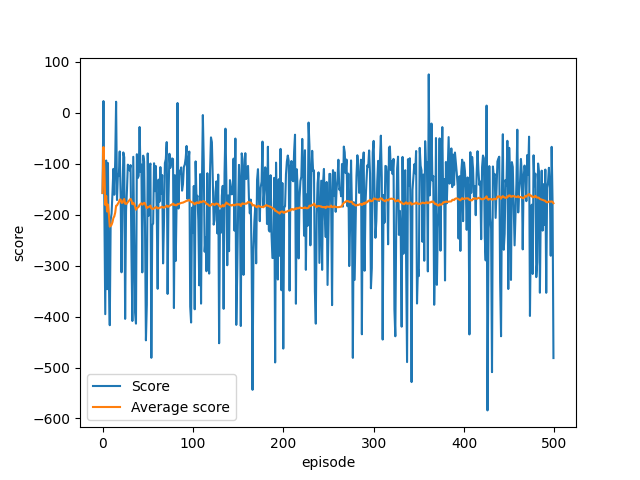
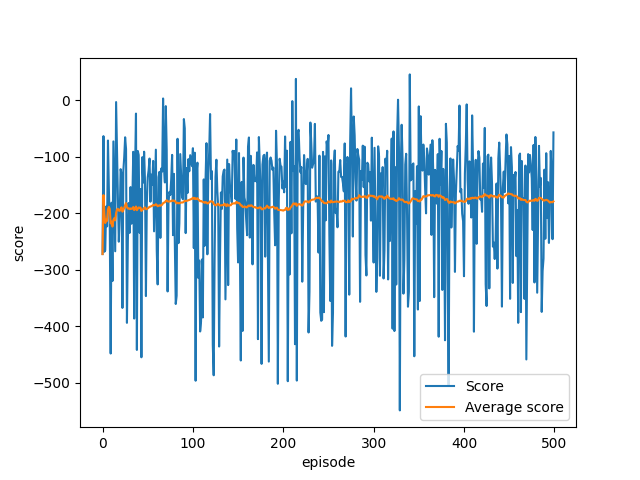
visualization, model lr update

diff --git a/AS2.2/Agent.py b/AS2.2/Agent.py
@@ -11,6 +11,13 @@ class Agent:
         self.maze = Maze
         self.policy = Policy
         self.delta_threshold = delta_threshold
+        # self.iterations = {}
+        # index = 0
+        # for vertical in range(4):
+        #     for horizontal in range(4):
+        #         coord = (vertical, horizontal)
+        #         self.iterations[coord] = []
+        #         index += 1
 
     def value_iteration(self):
         """
@@ -71,7 +78,17 @@ class Agent:
                 else:
                     print("Terminal state: ", next_state)
                     self.position = (3, 2)
-                self.print_iteration(-1)
+                    self.print_iteration(-1)
+
+                    # --------------- TEST -------------------
+
+                    for cor in self.maze.grid:
+                        self.maze.episodes[cor].append(round(self.maze.grid[cor][-1], 2))
+                    # self.maze.episodes.append
+
+                    # --------------- TEST -------------------
+
+        self.plot_values(2, 5, "_temporal_difference")
 
     def sarsa(self, discount: float, learning_rate: float, epsilon: float, epochs: int):
         """
@@ -84,6 +101,7 @@ class Agent:
                 epochs(int): ...
         """
         for epoch in range(epochs):
+            print("epoch: ", epoch)
             state = self.position
             print('\n')
             print(state)
@@ -99,8 +117,8 @@ class Agent:
                 next_surr_values = self.policy.value_func(next_surr_states, discount)
 
                 next_action = self.policy.decide_action_value(next_position, discount, epsilon, next_surr_values)
-
-                # self.pos[3][action] = c_surr_values[action] + learning_rate * (self.maze.rewards[next_position] + discount * next_surr_values[next_action] - c_surr_values[action])
+                print(next_action)
+                # self.maze.grid[] = c_surr_values[action] + learning_rate * (self.maze.rewards[next_position] + discount * next_surr_values[next_action] - c_surr_values[action])
 
                 action = next_action
                 self.position = next_position
@@ -160,23 +178,37 @@ class Agent:
         """
         Plot the values in a state transition matrix
         """
-        iterations = len(self.maze.grid[0, 0])
-        rows = math.ceil(math.sqrt(len(self.maze.grid)))
-        cols = math.ceil(math.sqrt(len(self.maze.grid)))
+        iterations = len(self.maze.episodes[0, 0]) - 1
+        rows = math.ceil(math.sqrt(len(self.maze.episodes)))
+        cols = math.ceil(math.sqrt(len(self.maze.episodes)))
+        # print(rows, cols, len(self.maze.episodes))
+        # print(self.maze.episodes)
 
         fig, axs = plt.subplots(tot_fig_rows, tot_fig_columns, figsize=(10, 9))
         fig.suptitle('Heatmaps for Each Iteration')
 
-        for i in range(iterations):
+        print(self.maze.episodes)
+
+        cl = -1
+        nextt = False
+        for i in range(iterations + 1):
             values = []
+            cl += 1
             for r in range(rows):
                 row_values = []
                 for c in range(cols):
                     key = (r, c)
-                    row_values.append(self.maze.grid[key][i])
+                    row_values.append(self.maze.episodes[key][i])
                 values.append(row_values)
 
-            ax = axs[i // tot_fig_rows, i % tot_fig_columns]
+            rw = 0 if i <= (iterations/2) else 1
+            if i > (iterations/2) and not nextt:
+                cl = 0
+                nextt = True
+            # cl =
+            print([rw, cl])
+            ax = axs[rw, cl]
+            # ax = axs[i // tot_fig_rows, i % tot_fig_columns]
             ax.imshow(values, cmap='viridis', interpolation='nearest')
 
             for r in range(rows):
@@ -184,7 +216,7 @@ class Agent:
                     color = 'black' if values[r][c] > 30 else 'white'
                     ax.text(c, r, values[r][c], ha='center', va='center', color=color)
 
-            ax.set_title(f'Iteration {i + 1}')
+            ax.set_title(f'Iteration {i}')
             ax.set_xticks(range(cols))
             ax.set_yticks(range(rows))
             ax.set_xticklabels([str(j) for j in range(cols)])

diff --git a/AS2.2/Maze.py b/AS2.2/Maze.py
@@ -8,6 +8,7 @@ class Maze:
         self.grid = {}
         self.terminal_states = []
         self.actions = {0: [-1, 0], 1: [1, 0], 2: [0, -1], 3: [0, 1]}
+        self.episodes = self.fillDict([[] for _ in range(16)])
 
     def stepper(self, position, action):
         movement = self.actions[action]
@@ -42,10 +43,7 @@ class Maze:
         return dict
 
     def create_maze_values(self):
-        values = [[0], [0], [0], [0],
-                  [0], [0], [0], [0],
-                  [0], [0], [0], [0],
-                  [0], [0], [0], [0]]
+        values = [[0] for _ in range(16)]
 
         rewards = [-1, -1, -1, 40,
                    -1, -1, -10, -10,

diff --git a/AS2.2/main.py b/AS2.2/main.py
@@ -17,8 +17,8 @@ agent = Agent(start_position, maze, policy, delta_threshold)
 agent.value_iteration()
 
 # agent.temporal_difference(0.5, 1, 10)
-agent.temporal_difference(0.5, 0.5, 10)
-# agent.sarsa(0.25, 1, 0.1, 2000)
+# agent.temporal_difference(0.5, 0.5, 10)
+agent.sarsa(0.25, 1, 0.1, 2000)
 # agent.sarsa(0.25, 0.9, 0.1, 20000)
 # agent.q_learning(0.25, 1, 0.1, 50000)
 # agent.q_learning(0.5, 0.9, 0.1, 50000)

diff --git a/AS3.1/Policy.py b/AS3.1/Policy.py
@@ -41,7 +41,7 @@ class Policy:
 
     def setup_model(self, dimensions, actions, lr):
         model = tf.keras.Sequential()
-        model.add(layers.Dense(64, input_shape=(None, 8)))
+        model.add(layers.Dense(dimensions, input_shape=(None, 8)))
         model.add(layers.Dense(128, activation="relu"))
         model.add(layers.Dense(128, activation="relu"))
         model.add(layers.Dense(actions))

diff --git a/AS1.2/Maze.py b/AS1.2/Maze.py
@@ -42,10 +42,7 @@ class Maze:
         return dict
 
     def create_maze_values(self):
-        values = [[0], [0], [0], [0],
-                  [0], [0], [0], [0],
-                  [0], [0], [0], [0],
-                  [0], [0], [0], [0]]
+        values = [[0] for _ in range(16)]
 
         rewards = [-1, -1, -1, 40,
                    -1, -1, -10, -10,

diff --git a/AS3.1/main.py b/AS3.1/main.py
@@ -12,7 +12,7 @@ episodes = 500
 max_steps = 1000
 max_memory_size = 10000
 batch_size = 32
-learning_rate = 0.001
+learning_rate = 1
 scores = []
 average_scores = []
 
